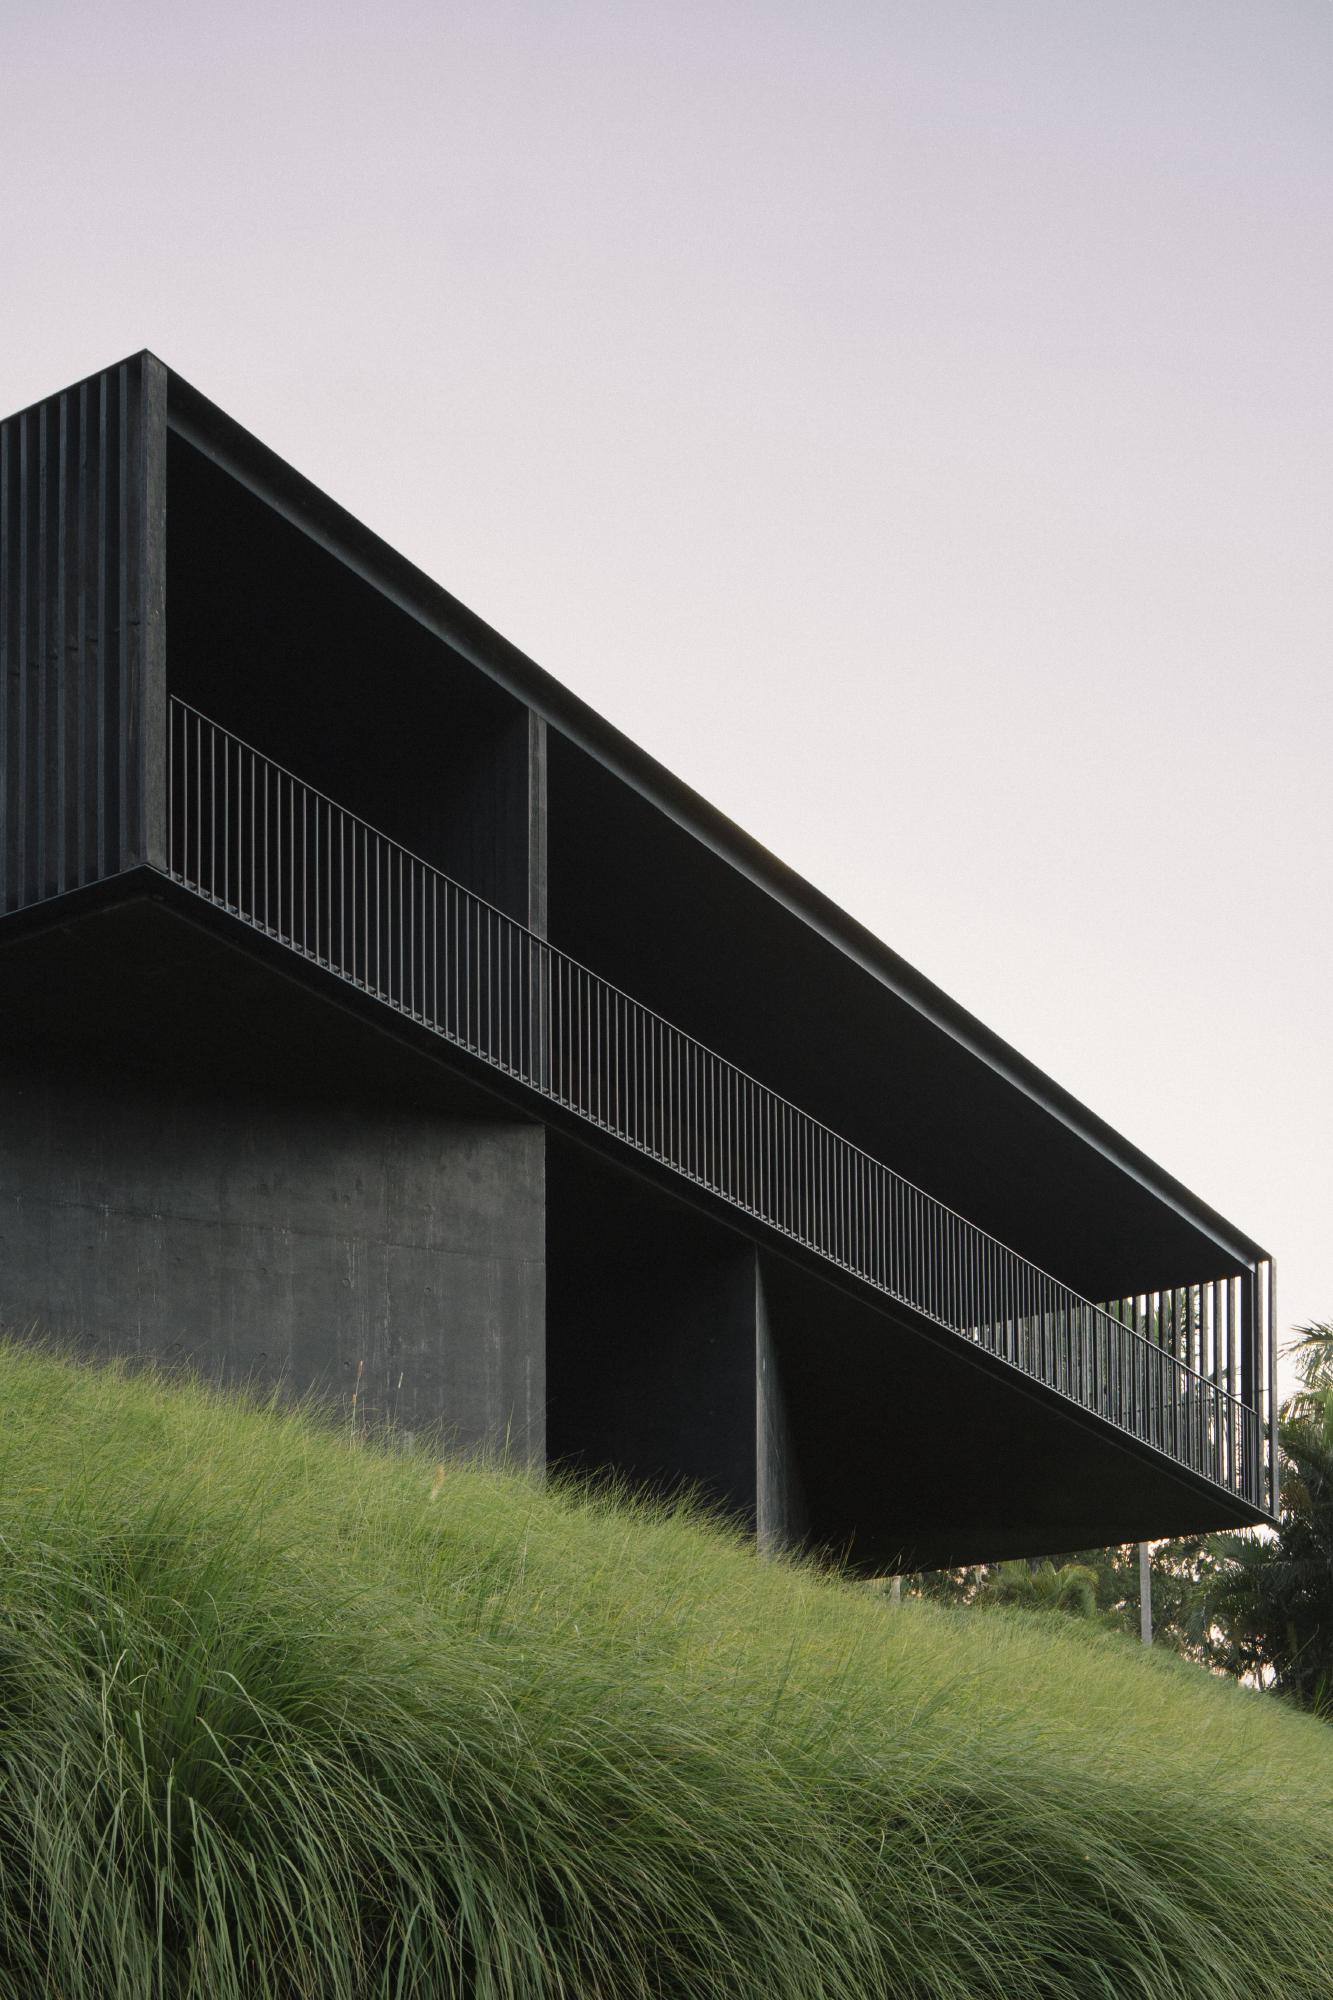
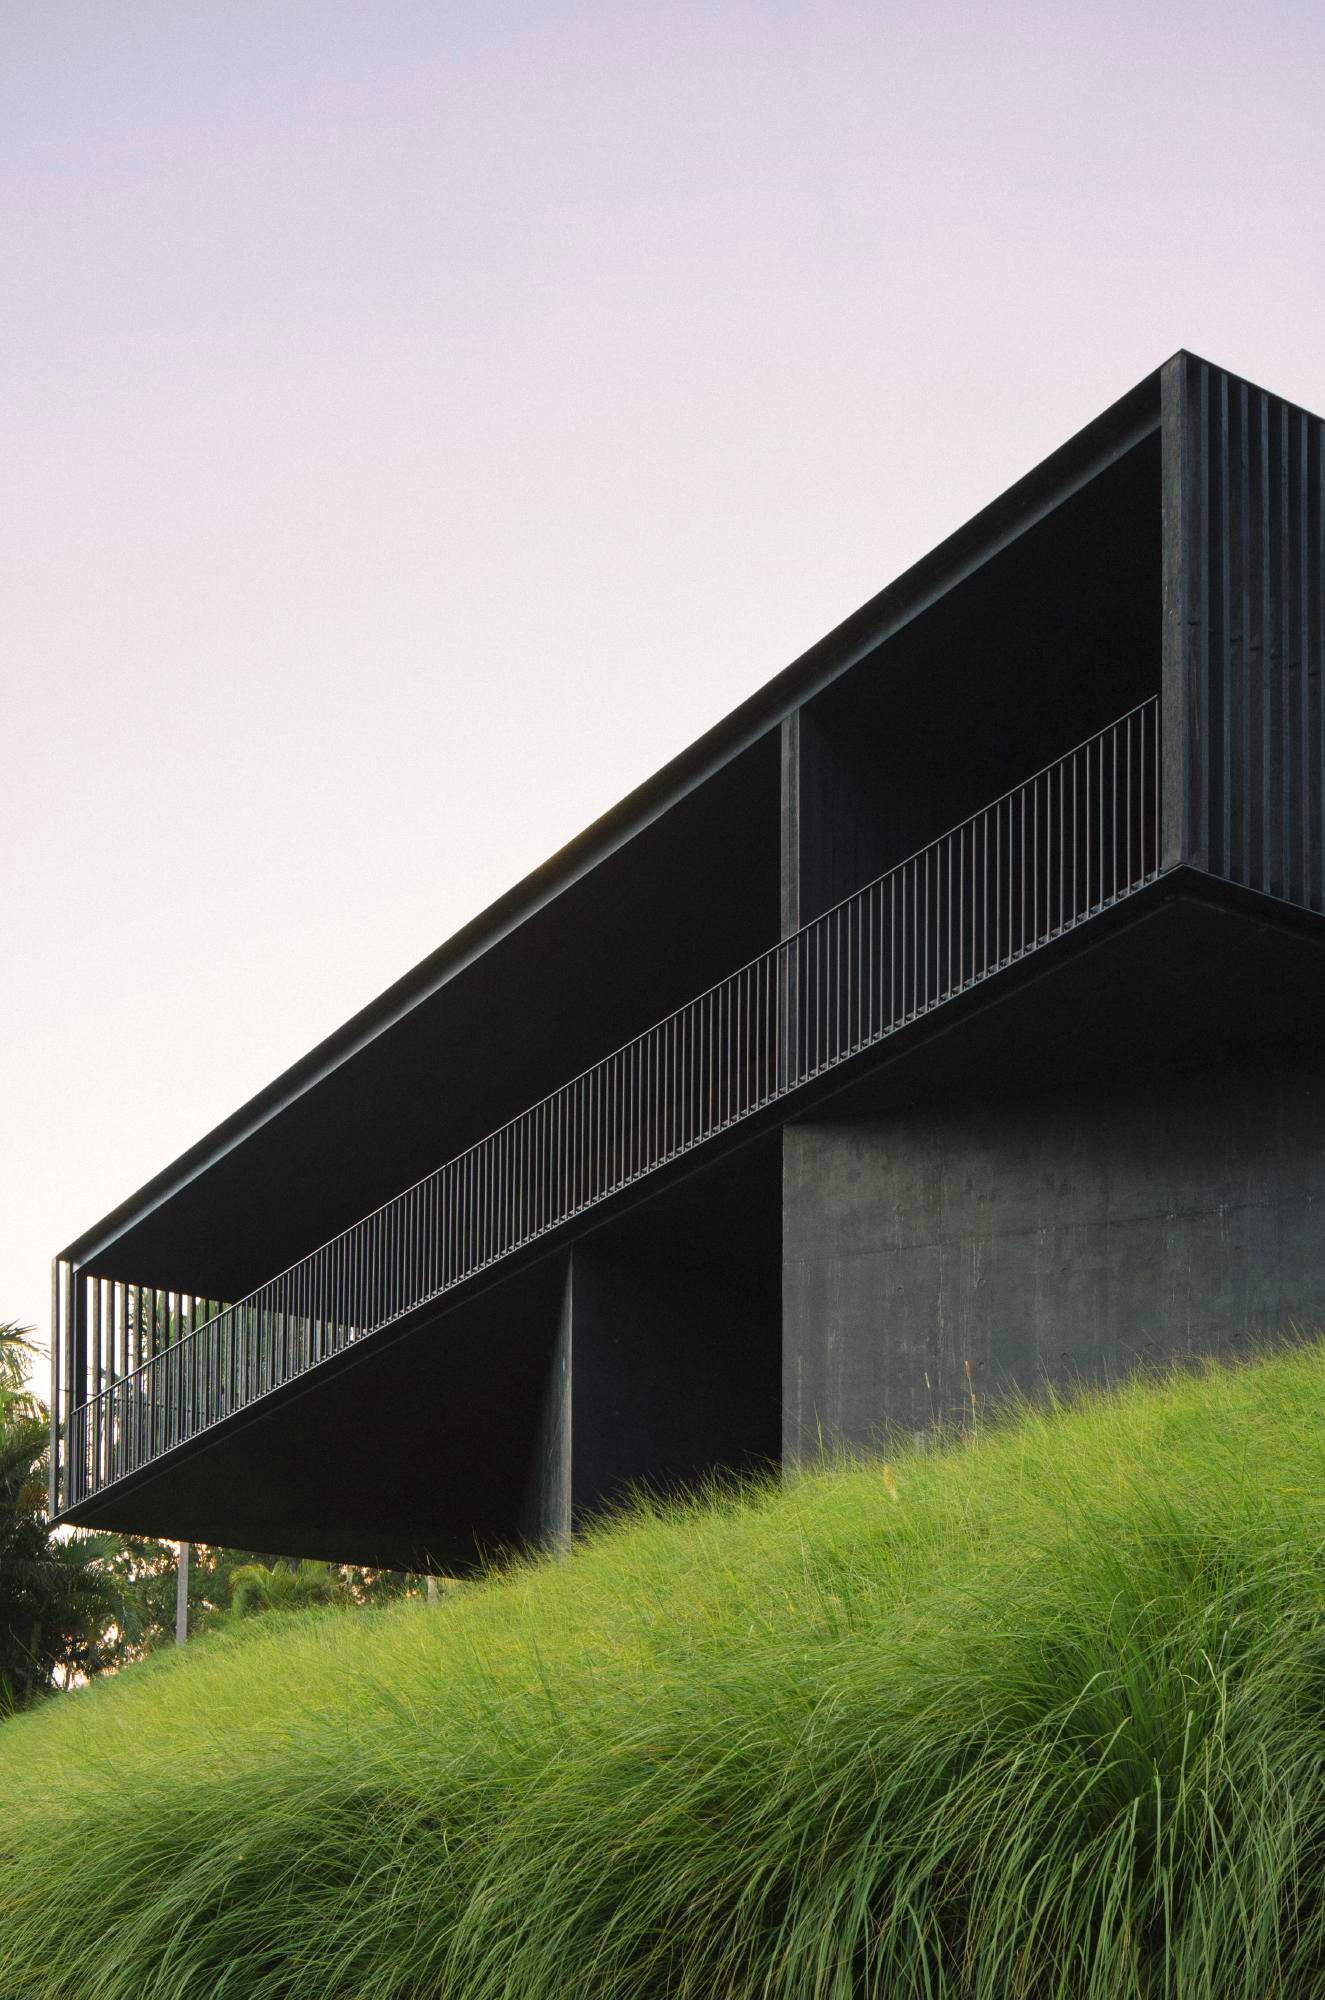
Change

diff --git a/style.css b/style.css
@@ -33,7 +33,9 @@ body {
 }
 
 .left-view .image-view img {
-    width: 100%;
+    width: 105%;
     height: 100%;
     object-fit: cover;
+    object-position: bottom;
+
 }
